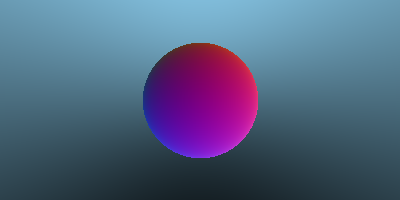
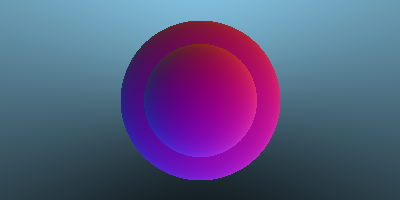
Add support for multiple spheres

Changed region(s): [[0.3, 0.09, 0.72, 0.9]]

diff --git a/src/main.cpp b/src/main.cpp
@@ -1,5 +1,7 @@
 #include "Camera.h"
 #include "Ray.h"
+#include "Sphere.h"
+#include "World.h"
 #include "glm/glm.hpp"
 #define STB_IMAGE_WRITE_IMPLEMENTATION
 #include "stb_image_write.h"
@@ -9,27 +11,18 @@
 #define WIDTH 400
 #define HEIGHT 200
 
+World world;
+
 vec3 getColor(Ray& ray) {
-    // Calculate intersection with a sphere
-    vec3 sphereCenter(0, 1, 0);
-    float radius = 0.5;
-    // h = b/2
-    float a, h, c;
-    a = glm::dot(ray.direction, ray.direction);
-    h = glm::dot(ray.direction, (ray.origin - sphereCenter));
-    c = glm::dot((ray.origin - sphereCenter), (ray.origin - sphereCenter)) - radius * radius;
-    
-    float determinant = h * h - a * c;
-    if (determinant > 0) {
-        // We will get the shortest t for now
-        float t1 = (-h - sqrt(determinant)) / a;
-        float t2 = (-h + sqrt(determinant)) / a;
-        ray.hits.t_min = t1 < t2 ? t1 : t2;
-        vec3 intersectionPoint = ray.origin + ray.hits.t_min * ray.direction;
-        vec3 normal = glm::normalize(intersectionPoint - sphereCenter);
-        // Map to [0, 1] and multiply by 255 to get a color
-        vec3 normalColor = (normal + float(1.0)) / float(2.0) * float(255.0);
-        return normalColor;
+    for (Sphere sphere : world.spheres) {
+        if (sphere.hit(ray)) {
+            vec3 intersectionPoint = ray.origin + ray.hits.t_min * ray.direction;
+            vec3 normal = glm::normalize(intersectionPoint - sphere.center);
+
+            // Map to [0, 1] and multiply by 255 to get a color
+            vec3 normalColor = (normal + float(1.0)) / float(2.0) * float(255.0);
+            return normalColor;
+        }
     }
     // Return sky color if no intersection with any objects is found
     // This is the formula for the cosine of the two angles, so we have to map
@@ -51,16 +44,20 @@ int main() {
     // Setup camera
     Camera camera(vec3(0, 0, 0));
 
-    // Setup ray
-    Ray ray;
-    ray.origin = camera.getPos();
-    ray.direction.y = 1;
+    // Setup world
+    // TODO: Fix having to put these in order
+    world.spheres.push_back(Sphere(vec3(0, 1, 0), 0.5));
+    world.spheres.push_back(Sphere(vec3(0, 4, 0), 2.5));
 
     float aspectRatio = static_cast<float>(WIDTH) / static_cast<float>(HEIGHT);
-
     // Render loop
     for (int i = 0; i < HEIGHT; i++) {
         for (int j = 0; j < WIDTH; j++) {
+            // Setup ray
+            Ray ray;
+            ray.origin = camera.getPos();
+            ray.direction.y = 1;
+
             // Map pixel coordinates to ray direction
             ray.direction.z = i / (HEIGHT / 2.0) - 1.0;
             ray.direction.x = (j / (WIDTH / 2.0) - 1.0) * aspectRatio;

diff --git a/src/Sphere.h b/src/Sphere.h
@@ -1,0 +1,38 @@
+#pragma once
+#include "glm/glm.hpp"
+#include "Ray.h"
+
+using glm::vec3;
+
+class Sphere {
+    public:
+        Sphere();
+        Sphere(vec3 cen, float rad) {
+            center = cen;
+            radius = rad;
+        }
+
+        bool hit(Ray& ray) {        
+            // h = b/2
+            float a, h, c;
+            a = glm::dot(ray.direction, ray.direction);
+            h = glm::dot(ray.direction, (ray.origin - center));
+            c = glm::dot((ray.origin - center), (ray.origin - center)) - radius * radius;
+        
+            float determinant = h * h - a * c;
+            // We compare to 0.01 to account for errors made by floating point
+            // operations
+            if (determinant > 0.01) {
+                // We will get the shortest t for now
+                float t1 = (-h - sqrt(determinant)) / a;
+                float t2 = (-h + sqrt(determinant)) / a;
+                ray.hits.t_min = t1 < t2 ? t1 : t2;
+                return true;
+            }
+            return false;
+        }
+
+    public:
+        vec3 center;
+        float radius;
+};

diff --git a/src/World.h b/src/World.h
@@ -1,0 +1,11 @@
+#pragma once
+#include "glm/glm.hpp"
+#include "Sphere.h"
+#include <vector>
+
+using glm::vec3;
+
+struct World {
+    vec3 skyColor;
+    std::vector<Sphere> spheres; 
+};
